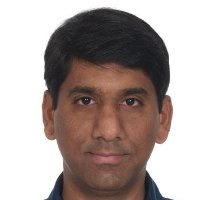
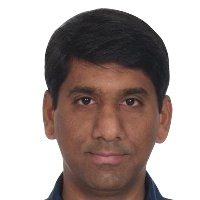
Updated profile

diff --git a/style.css b/style.css
@@ -27,7 +27,7 @@ h2{padding:20px 0px 10px 0;margin:0px;color:#484848;font-weight:bold;font-size:2
 h3{padding:20px 0px 0 0;margin:0px;color:#484848;font-weight:bold;font-size:24px;}
 h4{padding:0px 0px 0 0;margin:0px;color:#484848;font-weight:bold;font-size:18px;}
 /*-----------------------main container----------------------------------*/
-#main_container{width:900px;height:auto;margin:0px 0 0 230px;padding:0px 0 40px 0; float:left; background-color:#fff; position:relative;-moz-box-shadow:0 0 6px #7d7d7d;-webkit-box-shadow:0 0 6px #7d7d7d;box-shadow:0 0 6px #7d7d7d;border-top:5px solid #0091ed;}
+#main_container{width:900px;height:auto;margin:0px 0 0 230px;padding:0px 0 40px 0; float:left; background-color:#fff; position:relative;-moz-box-shadow:0 0 6px #7d7d7d;-webkit-box-shadow:0 0 6px #7d7d7d;box-shadow:0 0 6px #7d7d7d;border-top:5px solid #0091ed; background-color:lightgray;}
 #main_container_2{width:900px;height:auto;margin:0px 0 0 230px;padding:0px 0 40px 0; float:left; background-color:#fff; position:relative;-moz-box-shadow:0 0 6px #7d7d7d;-webkit-box-shadow:0 0 6px #7d7d7d;box-shadow:0 6px 6px #7d7d7d;}
 #header{width:1000px;height:160px;margin:auto;}
 a.bookmark{
@@ -382,7 +382,7 @@ img.sidebarpost_thumb{float:left;width:50px; height:50px; border:1px #eeeeee sol
 .sidebar_home_more a{color:#4f4f4d;background-color:#eeeeee;font-size:16px;margin:0px;padding:3px 8px 3px 8px;float:right;}
 
 
-.page_content{width:800px; float:left; padding:25px 0 0 19px;}
+.page_content{width:800px; float:left; padding:25px 0 0 19px; background-color:lightgray;}
 .pages_thumb{border:3px #dfddd4 solid; margin:24px 0 20px 0;}
 .pages_post_descr{width:650px;border-top:1px #f0eee5 solid;border-bottom:1px #f0eee5 solid;padding:5px 0 5px 0;}
 .pages_post_descr span{padding:0 25px 0 5px;}
@@ -390,8 +390,8 @@ img.sidebarpost_thumb{float:left;width:50px; height:50px; border:1px #eeeeee sol
 .pages_post_descr span a:hover{text-decoration:underline;}
 
 /*.page_content ul{ padding:10px 0 20px 20px; margin:0; list-style:none;}*/
-.page_content ul{ padding:20px 0 20px 20px; margin:0;}
-.page_content ul li{ padding:4px 0 4px 0; margin:0px;}
+.page_content ul{ padding:20px 0 20px 20px; margin:0; background-color:lightgray;}
+.page_content ul li{ padding:4px 0 4px 0; margin:0px; background-color:lightgray; }
 /*
 .page_content ul li a{ padding:0px 0 0 15px; margin:0px;color:#686868; background:url(./images/bullet_blue.gif) no-repeat left; text-decoration:none;}
 .page_content ul li a{ padding:0px 0 0 0px; margin:0px;color:#686868; text-decoration:none;}

diff --git a/index.htm b/index.htm
@@ -57,7 +57,7 @@ $(this).next("li.menu_body").slideDown(500).siblings("li.menu_body").slideUp("sl
 
 <div id="main_container">
 			<!-- LOGO -->
-			<a id="logo" title="Sai Sitharaman" href="index.htm"><img src="./images/sai.jpg" alt=" " width="150" height="150"/></a>
+			<a id="logo" title="Sai Sitharaman" href="index.htm"><img src="./images/sai.png" alt=" " width="150" height="150"/></a>
 			<!--LOGO ENDS  -->
 				<div id="main_navigation" class="main-menu ">	<!--  MAIN  NAVIGATION--> 
 			<h3><a href="https://github.com/saigs">GitHub</a> |
@@ -83,8 +83,8 @@ $(this).next("li.menu_body").slideDown(500).siblings("li.menu_body").slideUp("sl
 	</div>
 
 	<!--Main Content Start-->
-    <div class="page_content">
-		Welcome! I am an engineer with academic and scientific interests. My academic interests range broadly in network security, cryptography, key exchanges, network performance scaling and modeling, and dynamic networks such as peer-to-peer, cloud, and wireless.
+	<div class="page_content">
+		Welcome! I am an engineer with academic and scientific interests. My academic interests range broadly in network security, cryptography, key exchanges, network performance scaling and modeling, and dynamic networks such as cloud, infastructure, automation, security and privacy, and wireless networks.
    
 		<h1>Recent Projects</h1>
    		<hr/>
@@ -128,7 +128,8 @@ $(this).next("li.menu_body").slideDown(500).siblings("li.menu_body").slideUp("sl
 		<img src=images/eng.jpg class=post_thumb>
 			I had the great opportunity to contribute to several engineering organizations including the following.
 		</img><p/>
-		<li style="margin-left:120px">Tetrate Service Mesh<a href="https://tetrate.io">Tetrate Service Mesh</a>, 2018-Present
+		<li style="margin-left:120px">Independent Consultant, Cloud Security and Infrastructure, 2020-Present
+		<li style="margin-left:120px">Tetrate Service Mesh<a href="https://tetrate.io">Tetrate Service Mesh</a>, 2018-2020
 		<li style="margin-left:120px">Gigamon's <a href="https://www.gigamon.com/solutions/type/public-cloud.html">Cloud Visibility Platform</a>, 2016-2018
 		<li style="margin-left:120px">Zscaler's <a href="https://www.zscaler.com/why-zscaler/cloud-security">Cloud Security Platform</a>, 2013-2016
 		<li style="margin-left:120px">Aruba Networks's S3XXX series <a href="http://www.arubanetworks.com/products/mobility-access-switches ">Mobility Access Switches</a>, 2011-2013
